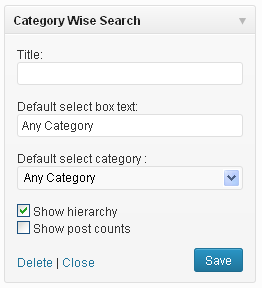
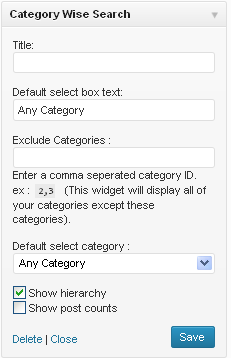
Add exclude category option
git-svn-id: https://plugins.svn.wordpress.org/category-wise-search/trunk@819001 b8457f37-d9ea-0310-8a92-e5e31aec5664

diff --git a/category-wise-search.php b/category-wise-search.php
@@ -38,9 +38,10 @@ class Category_Wise_Search_Widget extends WP_Widget {
    	 $show_count     = ! empty( $instance['count'] ) ? '1' : '0';
 	 $show_hierarchy = ! empty( $instance['show_hierarchy'] ) ? '1' : '0';
  	 $default_cat    = isset( $instance['default_cat'] ) ? absint( $instance['default_cat'] ) : 0;
+ 	 $exclude    = isset($instance['exclude'])?esc_attr($instance['exclude']):'';
      if(isset($_GET['cat']))
      $default_cat =absint($_GET['cat']);
-	 $cat_args = array('selected'=>$default_cat,'show_count' => $show_count, 'hierarchical' => $show_hierarchy,'show_option_all'=>$default_select_text,'echo'=>0,'id'=>'searchform_cat');
+	 $cat_args = array('selected'=>$default_cat,'show_count' => $show_count, 'hierarchical' => $show_hierarchy,'show_option_all'=>$default_select_text,'echo'=>0,'id'=>'searchform_cat','exclude'=>$exclude);
      ?>
 	 <?php echo $before_widget; ?>
 	 <?php if ( $title ) echo $before_title . $title . $after_title; ?>
@@ -80,6 +81,7 @@ class Category_Wise_Search_Widget extends WP_Widget {
     	$instance['default_cat'] = ($new_instance['default_cat']);
 		$instance['count'] = !empty($new_instance['count']) ? 1 : 0;
 		$instance['show_hierarchy'] = !empty($new_instance['show_hierarchy']) ? 1 : 0;
+		$instance['exclude'] = strip_tags($new_instance['exclude']);
 		return $instance;
 	}
 
@@ -102,6 +104,7 @@ class Category_Wise_Search_Widget extends WP_Widget {
 	 $count = isset($instance['count']) ? (bool) $instance['count'] :false;
 	 $show_hierarchy = isset( $instance['show_hierarchy'] ) ? (bool) $instance['show_hierarchy'] : true;
 	 $default_cat    = isset($instance['default_cat'] ) ? absint($instance['default_cat']) : 0;
+	 $exclude    = isset($instance['exclude'] ) ? strip_tags($instance['exclude']) : '';
 	?>
 	 <p>
 	  <label for="<?php echo $this->get_field_id( 'title' ); ?>"><?php _e( 'Title:' ); ?></label> 
@@ -111,9 +114,13 @@ class Category_Wise_Search_Widget extends WP_Widget {
 	  <label for="<?php echo $this->get_field_id( 'default_select_text' ); ?>"><?php _e( 'Default select box text:' ); ?></label> 
 	   <input class="widefat" id="<?php echo $this->get_field_id( 'default_select_text' ); ?>" name="<?php echo $this->get_field_name( 'default_select_text' ); ?>" type="text" value="<?php echo esc_attr( $default_select_text); ?>" />
 	 </p>
+	 <p><label for="<?php echo $this->get_field_id('exclude'); ?>"><?php _e( 'Exclude Categories :' ); ?></label>
+		<input class="widefat" id="<?php echo $this->get_field_id('exclude'); ?>" name="<?php echo $this->get_field_name('exclude'); ?>" type="text" value="<?php echo $exclude; ?>" />		
+		<br>Enter a comma seperated category ID.<br>ex : <code>2,3</code> &nbsp;&nbsp;(This widget will display all of your categories except these categories).
+	 </p>
 	 <p>
 	  <label for="<?php echo $this->get_field_id( 'default_cat' ); ?>"><?php _e( 'Default select category :' ); ?></label> 
-	   <?php $cat_arg = array( 'hierarchical' => 1,'selected'=>$default_cat,'show_option_all'=>($default_select_text!='')?esc_attr( $default_select_text):esc_attr( $default_select_text),'echo'=>0,'id'=>$this->get_field_id( 'default_cat' ),'name'=>$this->get_field_name( 'default_cat' ),'class'=>'widefat');
+	   <?php $cat_arg = array( 'hierarchical' => 1,'selected'=>$default_cat,'show_option_all'=>($default_select_text!='')?esc_attr( $default_select_text):esc_attr( $default_select_text),'echo'=>0,'id'=>$this->get_field_id( 'default_cat' ),'name'=>$this->get_field_name( 'default_cat' ),'exclude'=>$exclude,'class'=>'widefat');
           echo wp_dropdown_categories($cat_arg);?>
 	 </p>	 
 	 <p>
